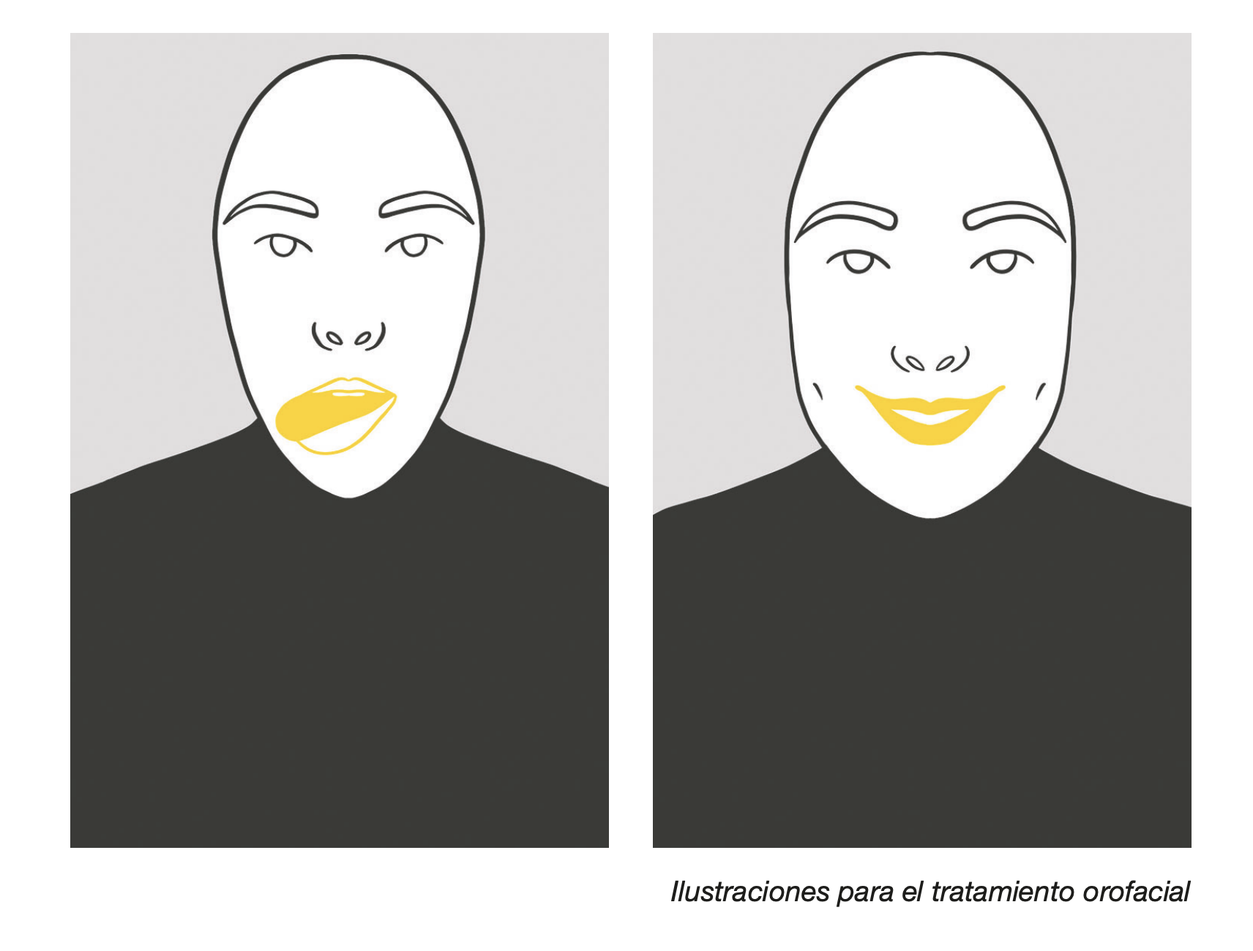
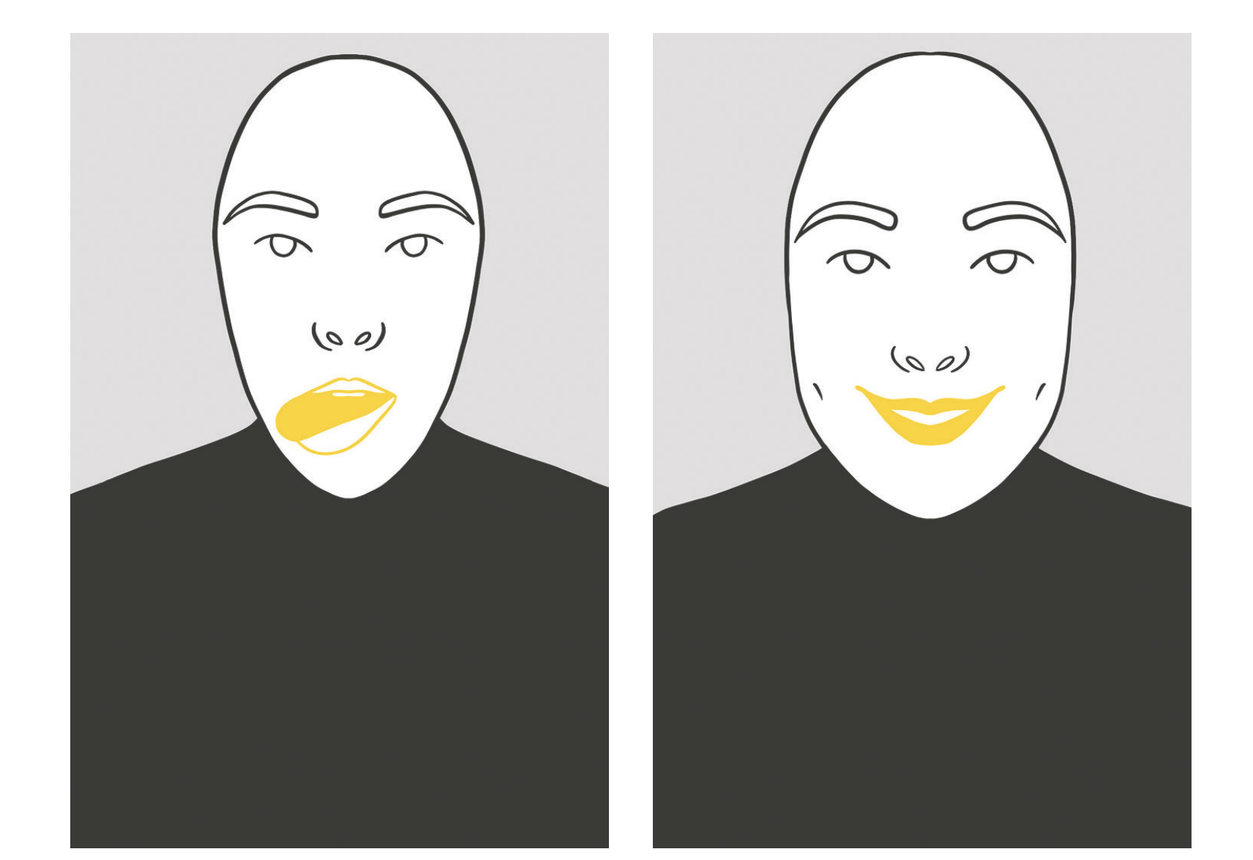
Restructure SISDEVA case study and unify Key Learnings layout
Split SISDEVA into dedicated RV experience and information-architecture
sections, add promotional/branding closing images, expand solution
copy, and remove the max-w-2xl constraint from the "Qué me dejó este
proyecto" block across all project pages for a consistent full-width layout.

diff --git a/work/sisdeva.html b/work/sisdeva.html
@@ -463,18 +463,20 @@
         </p>
       </div>
 
+      <div class="reveal mt-16 md:mt-20 rounded-2xl overflow-hidden bg-white">
+        <img src="sisdeva-logo-construction.webp" alt="Construcción del símbolo del logotipo de SISDEVA: la letra S, una hélice de ADN y unas gafas de realidad virtual se combinan para formar el icono de la marca" class="w-full h-auto">
+      </div>
+
       <div class="reveal mt-16 md:mt-20 rounded-2xl overflow-hidden">
         <img src="sisdeva-orofacial-illustrations.png" alt="Ilustraciones para el tratamiento orofacial: dos rostros ilustrados con los labios resaltados en amarillo" class="w-full h-auto">
       </div>
+      <p class="reveal text-xs text-slate mt-3">Ilustraciones para el tratamiento orofacial</p>
 
       <div class="reveal grid md:grid-cols-[1fr_1.4fr] gap-4 md:gap-16 mb-14 mt-16 md:mt-20 pt-16 md:pt-20 border-t border-ink/[0.08]">
         <p class="text-xs font-medium tracking-widest uppercase text-slate">Terapias digitales</p>
         <div class="space-y-5">
           <p class="text-ink/80 leading-relaxed max-w-2xl">
-            Entre varios de nuestros objetivos, se encuentra fomentar el entrenamiento autónomo en los pacientes. Es por ello que se han desarrollado una serie de ejercicios a modo de terapias digitales que estimulan ciertos movimientos faciales y corporales que irán incorporados en uno de los apartados de la app. Para su correcta realización, se han llevado a cabo una serie de pasos:
-          </p>
-          <p class="text-ink/80 leading-relaxed max-w-2xl">
-            Dentro de terapias digitales, destaca que se plantearon entonces dos modalidades para la UX del producto:
+            Entre varios de nuestros objetivos, se encuentra fomentar el entrenamiento autónomo en los pacientes. Es por ello que se han desarrollado una serie de ejercicios a modo de terapias digitales que estimulan ciertos movimientos faciales y corporales que irán incorporados en uno de los apartados de la app. Para su correcta realización, se han llevado a cabo una serie de pasos. Además, dentro de terapias digitales, destaca que se plantearon entonces dos modalidades para la UX del producto:
           </p>
           <ul class="text-ink/80 leading-relaxed space-y-3 list-disc list-outside pl-4 marker:text-latte-dark">
             <li>Uso del software en el propio dispositivo móvil / tablet</li>
@@ -483,8 +485,7 @@
         </div>
       </div>
 
-      <div class="reveal grid md:grid-cols-[1fr_1.4fr] gap-4 md:gap-16">
-        <p class="text-xs font-medium tracking-widest uppercase text-slate mt-1">Proceso</p>
+      <div class="reveal">
         <ul class="border-t border-ink/[0.08]">
           <li class="py-5 border-b border-ink/[0.08] flex flex-col sm:flex-row sm:items-baseline gap-1 sm:gap-6">
             <span class="text-sm font-medium text-latte-dark shrink-0">01</span>
@@ -515,9 +516,24 @@
           </li>
         </ul>
       </div>
+    </section>
 
-      <div class="reveal grid md:grid-cols-[1fr_1.4fr] gap-4 md:gap-16 mt-16 md:mt-20 pt-16 md:pt-20 border-t border-ink/[0.08]">
-        <p class="text-xs font-medium tracking-widest uppercase text-slate">Experiencia en RV</p>
+    <!-- ===== 07 · EXPERIENCIA EN RV ===== -->
+    <section class="max-w-6xl mx-auto px-6 md:px-10 py-16 md:py-20 border-t border-ink/[0.08]">
+      <div class="reveal flex items-center gap-4 mb-5">
+        <span class="text-sm font-medium text-latte-dark">07</span>
+        <span class="text-xs font-medium tracking-widest uppercase text-slate">Experiencia en RV</span>
+      </div>
+      <h2 class="reveal text-2xl md:text-3xl font-semibold tracking-tight mb-14 md:mb-16">
+        Diseñando la experiencia dentro de las gafas de RV
+      </h2>
+
+      <div class="reveal mb-14 md:mb-16 aspect-[16/9] rounded-2xl overflow-hidden">
+        <img src="sisdeva-vr-hands.webp" alt="Persona con gafas de realidad virtual moviendo las manos frente a ella" class="w-full h-full object-cover">
+      </div>
+
+      <div class="reveal grid md:grid-cols-[1fr_1.4fr] gap-4 md:gap-16">
+        <p class="text-xs font-medium tracking-widest uppercase text-slate">Enfoque</p>
         <div class="space-y-5">
           <p class="text-ink/80 leading-relaxed max-w-2xl">
             En la pantalla se muestra una sencilla figura humana ilustrada que imita el movimiento que realiza el usuario. La parte específica del cuerpo que se trata de estimular viene destacada en color amarillo. De este modo, el usuario se ve a sí mismo en movimiento (gracias a la información recogida con el sensor externo) dentro de un espacio de 360º. Alrededor de esta figura se muestra una línea discontinua la cual indica la posición final del movimiento que debe realizar. El sensor es capaz de recoger parámetros como la velocidad de los movimientos, la aceleración, o grados de inclinación, por lo que el usuario podrá ir viendo en su pantalla su evolución con respecto a los diferentes datos que se registran.
@@ -529,11 +545,41 @@
       </div>
 
       <div class="reveal mt-16 md:mt-20 rounded-2xl overflow-hidden">
+        <img src="sisdeva-vr-setup.webp" alt="Instrucción para colocar el dispositivo en posición horizontal e introducirlo en las gafas de realidad virtual, junto a la fotografía del ejercicio corporal en exteriores" class="w-full h-auto">
+      </div>
+
+      <div class="reveal mt-10 md:mt-12 rounded-2xl overflow-hidden">
         <img src="sisdeva-body-exercise.webp" alt="Boceto de ejercicio facial con brazos levantados sobre fondo amarillo y aplicación del mismo ejercicio corporal superpuesto sobre una fotografía en exteriores" class="w-full h-auto">
+      </div>
+    </section>
+
+    <!-- ===== 08 · ARQUITECTURA Y EXPERIENCIA DE USUARIO ===== -->
+    <section class="max-w-6xl mx-auto px-6 md:px-10 py-16 md:py-20 border-t border-ink/[0.08]">
+      <div class="reveal flex items-center gap-4 mb-5">
+        <span class="text-sm font-medium text-latte-dark">08</span>
+        <span class="text-xs font-medium tracking-widest uppercase text-slate">Arquitectura y experiencia de usuario</span>
+      </div>
+      <h2 class="reveal text-2xl md:text-3xl font-semibold tracking-tight mb-14 md:mb-16">
+        Estructurando el acceso y la navegación de la app
+      </h2>
+
+      <div class="reveal mb-14 md:mb-16 rounded-2xl overflow-hidden bg-white">
+        <img src="sisdeva-information-architecture.webp" alt="Diagrama de arquitectura de la información de la aplicación, desde Inicio Sesión hasta las secciones Agenda, Actividad, Seguimiento, Contacto y Perfil" class="w-full h-auto">
+      </div>
+
+      <div class="reveal grid md:grid-cols-[1fr_1.4fr] gap-4 md:gap-16">
+        <p class="text-xs font-medium tracking-widest uppercase text-slate">Acceso y registro</p>
+        <p class="text-ink/80 leading-relaxed max-w-2xl">
+          La estructura de uso de la aplicación parte de la pantalla de acceso. Dado que se trata de una aplicación destinada al uso con fines sanitarios, el registro en la misma vendrá recomendado y controlado por parte de un profesional. Por ello, para iniciar la sesión, el usuario deberá introducir su DNI y un código que el personal sanitario que siga su tratamiento le habrá facilitado previamente. De este modo la aplicación quedaría conectada automáticamente al historial médico de los pacientes, facilitando así la actualización continua de los datos.
+        </p>
+      </div>
+
+      <div class="reveal mt-16 md:mt-20 rounded-2xl overflow-hidden bg-[#3D3D3D]">
+        <img src="sisdeva-login-mockup.webp" alt="Mockup de la pantalla de inicio de sesión, con campos para usuario (DNI) y contraseña, en formato horizontal y vertical" class="w-full h-auto">
       </div>
 
       <div class="reveal grid md:grid-cols-[1fr_1.4fr] gap-4 md:gap-16 mt-16 md:mt-20 pt-16 md:pt-20 border-t border-ink/[0.08]">
-        <p class="text-xs font-medium tracking-widest uppercase text-slate">Aplicación y experiencia de usuario</p>
+        <p class="text-xs font-medium tracking-widest uppercase text-slate">Experiencia post-registro</p>
         <p class="text-ink/80 leading-relaxed max-w-2xl">
           De la definición de perfil de usuario estándar de nuestra aplicación alcanzada gracias a la herramienta buyer persona, extraemos una serie de conclusiones que resultan fundamentales para crear la estructura base de la aplicación. La media de edad de las personas que recurrirían a nuestra aplicación viene dada por la media de edad de las personas que padecen EP, esto es, 60 años. Este dato resulta vital en este punto del proceso, pues, al no tratarse de una aplicación destinada a jóvenes, nos hace tener en cuenta términos de accesibilidad respecto al tamaño de las imágenes y textos, o a la dificultad que pueda suponer aprender a usarla con fluidez. Además, al tratarse de enfermedades degenerativas y, desgraciadamente, aún sin cura, debemos ser muy conscientes de que la aplicación deberá poder ser usada diariamente durante un largo periodo de tiempo sin resultar aburrida o transmitir una sensación de desagrado, es decir, debe ser "amable" tanto en funcionamiento como en apariencia con el usuario para fomentar un uso continuado de la misma.
         </p>
@@ -543,6 +589,8 @@
         <div id="wireframes-carousel-track" class="flex h-full transition-transform duration-500 ease-out">
           <img src="sisdeva-wireframe-actividad.png" alt="Wireframe de alta fidelidad de la pantalla Actividad, con cuatro tarjetas: Logopedia, Mindfulness, Movilidad y Entrenamiento cognitivo" class="w-full h-full object-contain p-6 md:p-10 shrink-0">
           <img src="sisdeva-wireframe-seguimiento.png" alt="Wireframe de alta fidelidad de la pantalla Seguimiento, con tiempo de actividad, logros y pasos diarios" class="w-full h-full object-contain p-6 md:p-10 shrink-0">
+          <img src="sisdeva-wireframe-inicio.webp" alt="Wireframe de alta fidelidad de la pantalla Inicio, con calendario, anotaciones, pendientes y accesos directos a Actividad, Seguimiento y Contacto" class="w-full h-full object-contain p-6 md:p-10 shrink-0">
+          <img src="sisdeva-wireframe-logopedia.webp" alt="Wireframe de alta fidelidad del ejercicio de Logopedia, mostrando el boceto del movimiento a imitar y la webcam del usuario realizándolo" class="w-full h-full object-contain p-6 md:p-10 shrink-0">
         </div>
 
         <button type="button" id="wireframes-carousel-prev" aria-label="Imagen anterior" class="focus-ring absolute top-1/2 left-4 -translate-y-1/2 w-9 h-9 flex items-center justify-center rounded-full bg-paper/90 backdrop-blur-sm text-ink hover:bg-paper transition-opacity opacity-0 group-hover:opacity-100 focus-visible:opacity-100 shadow-sm">
@@ -555,22 +603,24 @@
         <div class="absolute bottom-4 inset-x-0 flex items-center justify-center gap-2">
           <button type="button" class="wireframes-carousel-dot focus-ring w-2 h-2 rounded-full bg-ink transition-colors" data-index="0" aria-label="Ir a la imagen 1"></button>
           <button type="button" class="wireframes-carousel-dot focus-ring w-2 h-2 rounded-full bg-ink/25 transition-colors" data-index="1" aria-label="Ir a la imagen 2"></button>
+          <button type="button" class="wireframes-carousel-dot focus-ring w-2 h-2 rounded-full bg-ink/25 transition-colors" data-index="2" aria-label="Ir a la imagen 3"></button>
+          <button type="button" class="wireframes-carousel-dot focus-ring w-2 h-2 rounded-full bg-ink/25 transition-colors" data-index="3" aria-label="Ir a la imagen 4"></button>
         </div>
       </div>
       <p class="reveal text-xs text-slate mt-3">Wireframes de alta fidelidad</p>
+    </section>
 
-      <div class="reveal grid md:grid-cols-[1fr_1.4fr] gap-4 md:gap-16 mt-16 md:mt-20 pt-16 md:pt-20 border-t border-ink/[0.08]">
-        <p class="text-xs font-medium tracking-widest uppercase text-slate">Acceso y registro</p>
-        <p class="text-ink/80 leading-relaxed max-w-2xl">
-          La estructura de uso de la aplicación parte de la pantalla de acceso. Dado que se trata de una aplicación destinada al uso con fines sanitarios, el registro en la misma vendrá recomendado y controlado por parte de un profesional. Por ello, para iniciar la sesión, el usuario deberá introducir su DNI y un código que el personal sanitario que siga su tratamiento le habrá facilitado previamente. De este modo la aplicación quedaría conectada automáticamente al historial médico de los pacientes, facilitando así la actualización continua de los datos.
-        </p>
+    <!-- ===== 09 · SOLUTION ===== -->
+    <section class="max-w-6xl mx-auto px-6 md:px-10 py-16 md:py-20 border-t border-ink/[0.08]">
+      <div class="reveal flex items-center gap-4 mb-5">
+        <span class="text-sm font-medium text-latte-dark">09</span>
+        <span class="text-xs font-medium tracking-widest uppercase text-slate">Solución</span>
       </div>
+      <h2 class="reveal text-2xl md:text-3xl font-semibold tracking-tight max-w-2xl mb-14 md:mb-16">
+        Una ayuda para nuestros profesionales y pacientes
+      </h2>
 
-      <div class="reveal mt-16 md:mt-20 rounded-2xl overflow-hidden bg-white">
-        <img src="sisdeva-information-architecture.webp" alt="Diagrama de arquitectura de la información de la aplicación, desde Inicio Sesión hasta las secciones Agenda, Actividad, Seguimiento, Contacto y Perfil" class="w-full h-auto">
-      </div>
-
-      <div class="reveal mt-16 md:mt-20">
+      <div class="reveal rounded-2xl overflow-hidden">
         <img src="sisdeva-ipad-seguimiento.png" alt="Mockup de un iPad mostrando la pantalla de Seguimiento de la aplicación" class="w-full h-auto">
       </div>
 
@@ -578,26 +628,20 @@
         <img src="sisdeva-ipad-login.png" alt="Mockup de un iPad mostrando la pantalla de Inicio y un iPhone con la pantalla de inicio de sesión, solicitando DNI y contraseña" class="w-full h-auto">
       </div>
 
-      <div class="reveal mt-10 md:mt-12">
+      <div class="reveal mt-10 md:mt-12 mb-16">
         <img src="sisdeva-phone-lineup.webp" alt="Cinco mockups de iPhone mostrando distintas pantallas de la aplicación SISDEVA: portada, inicio, seguimiento, ejercicio de mano y ejercicio orofacial" class="w-full h-auto">
       </div>
-    </section>
-
-    <!-- ===== 07 · SOLUTION ===== -->
-    <section class="max-w-6xl mx-auto px-6 md:px-10 py-16 md:py-20 border-t border-ink/[0.08]">
-      <div class="reveal flex items-center gap-4 mb-5">
-        <span class="text-sm font-medium text-latte-dark">07</span>
-        <span class="text-xs font-medium tracking-widest uppercase text-slate">Solución</span>
-      </div>
-      <h2 class="reveal text-2xl md:text-3xl font-semibold tracking-tight max-w-2xl mb-14 md:mb-16">
-        Enseñar en lugar de explicar
-      </h2>
 
       <div class="reveal grid md:grid-cols-[1fr_1.4fr] gap-4 md:gap-16 mb-16">
         <p class="text-xs font-medium tracking-widest uppercase text-slate">Enfoque</p>
-        <p class="text-ink/80 leading-relaxed max-w-2xl">
-          [Placeholder] En vez de añadir más material informativo, apostamos por la realidad virtual para que el paciente pudiera ver y recorrer el procedimiento antes de vivirlo, reduciendo la distancia entre el lenguaje clínico y su experiencia real.
-        </p>
+        <div class="space-y-5">
+          <p class="text-ink/80 leading-relaxed max-w-2xl">
+            El desarrollo de este proyecto nos ayuda a encontrar aplicación a los diferentes conocimientos y habilidades adquiridas a lo largo del grado. Tratándose de un proyecto que abarca diversas ramas del campo del diseño, nos ha servido para conocer diferentes modos de actuación y comprender la repercusión que llega a tener el proceso de investigación. Nos ha hecho conscientes de la importancia del flujo de trabajo tanto individual como en grupo, acentuando la relevancia de valores como la cooperación, el trabajo en equipo, y el compromiso.
+          </p>
+          <p class="text-ink/80 leading-relaxed max-w-2xl">
+            El proyecto que se presenta, aporta la visión del asunto y avanza un prototipo de solución desde el punto de vista del diseño social. Esta idea para materializarse de una forma eficaz, precisará los aportes de expertos multidisciplinares, tanto en el ámbito sanitario como tecnológico. Esta convergencia de conocimientos de diferentes disciplinas especializadas, haría viable el producto pudiendo llegar a tener resultados visibles en una hipotética aplicación.
+          </p>
+        </div>
       </div>
 
       <div class="reveal grid md:grid-cols-[1fr_1.4fr] gap-4 md:gap-16 mb-16">
@@ -607,47 +651,55 @@
             <span class="text-sm font-medium text-latte-dark shrink-0">01</span>
             <div>
               <h3 class="text-base font-medium mb-1">Experiencia inmersiva guiada</h3>
-              <p class="text-sm text-slate leading-relaxed max-w-lg">[Placeholder] Recorrido en realidad virtual que muestra paso a paso el procedimiento.</p>
+              <p class="text-sm text-slate leading-relaxed max-w-lg">A través de las gafas de realidad virtual, el paciente recorre el procedimiento paso a paso en primera persona, visualizando cada etapa antes de vivirla en la consulta real. Esta experiencia guiada reduce la incertidumbre y ayuda a que la persona llegue a la cita con una idea clara de lo que va a suceder.</p>
             </div>
           </li>
           <li class="py-5 border-b border-ink/[0.08] flex flex-col sm:flex-row sm:items-baseline gap-1 sm:gap-6">
             <span class="text-sm font-medium text-latte-dark shrink-0">02</span>
             <div>
               <h3 class="text-base font-medium mb-1">Lenguaje visual accesible</h3>
-              <p class="text-sm text-slate leading-relaxed max-w-lg">[Placeholder] Sustitución del vocabulario clínico por representaciones visuales comprensibles.</p>
+              <p class="text-sm text-slate leading-relaxed max-w-lg">Sustituimos el vocabulario clínico, a menudo complejo para el paciente, por ilustraciones sencillas y códigos visuales claros, como el uso del color amarillo para señalar la parte del cuerpo implicada en cada ejercicio. De este modo, la información se vuelve comprensible independientemente de los conocimientos médicos previos del usuario.</p>
             </div>
           </li>
           <li class="py-5 flex flex-col sm:flex-row sm:items-baseline gap-1 sm:gap-6">
             <span class="text-sm font-medium text-latte-dark shrink-0">03</span>
             <div>
               <h3 class="text-base font-medium mb-1">Apoyo al profesional sanitario</h3>
-              <p class="text-sm text-slate leading-relaxed max-w-lg">[Placeholder] Herramienta de consulta que complementa la explicación sin alargar la visita.</p>
+              <p class="text-sm text-slate leading-relaxed max-w-lg">La herramienta funciona como apoyo durante la consulta, permitiendo al profesional sanitario reforzar sus explicaciones con contenido visual sin necesidad de alargar el tiempo de la cita. De esta forma, el paciente sale con una comprensión más completa del procedimiento sin que ello suponga una carga adicional para el equipo médico.</p>
             </div>
           </li>
         </ul>
       </div>
 
-      <div class="reveal grid md:grid-cols-[1fr_1.4fr] gap-4 md:gap-16">
-        <p class="text-xs font-medium tracking-widest uppercase text-slate mt-1">Resultados</p>
-        <ul class="space-y-4 max-w-2xl">
-          <li class="pl-4 border-l-2 border-latte text-ink/80 leading-relaxed">[Placeholder] Los pacientes comprendieron mejor en qué consistía el procedimiento.</li>
-          <li class="pl-4 border-l-2 border-latte text-ink/80 leading-relaxed">[Placeholder] Se redujo la ansiedad previa reportada por los participantes.</li>
-          <li class="pl-4 border-l-2 border-latte text-ink/80 leading-relaxed">[Placeholder] El personal sanitario ganó una herramienta de apoyo en consulta.</li>
-        </ul>
+      <div class="reveal mt-16 md:mt-20 rounded-2xl overflow-hidden">
+        <img src="sisdeva-appstore-mockup.webp" alt="Mockup de una persona sujetando un móvil con la ficha de SISDEVA abierta en la App Store" class="w-full h-auto">
       </div>
+
+      <div class="reveal mt-10 md:mt-12 rounded-2xl overflow-hidden">
+        <img src="sisdeva-desktop-mockup.webp" alt="Mockup de la página web de SISDEVA mostrada en un ordenador de sobremesa, un portátil y un móvil" class="w-full h-auto">
+      </div>
+
+      <div class="reveal mt-10 md:mt-12 rounded-2xl overflow-hidden">
+        <img src="sisdeva-subway-ad.webp" alt="Anuncio publicitario de SISDEVA en una estación de metro, con el mensaje 8 de cada 10 nos dan las gracias" class="w-full h-auto">
+      </div>
+
+      <div class="reveal mt-10 md:mt-12 rounded-2xl overflow-hidden">
+        <img src="sisdeva-logo-variations.png" alt="Variaciones del logotipo de SISDEVA en distintos colores y fondos" class="w-full h-auto">
+      </div>
+
     </section>
 
-    <!-- ===== 08 · KEY LEARNINGS ===== -->
+    <!-- ===== 10 · KEY LEARNINGS ===== -->
     <section class="max-w-6xl mx-auto px-6 md:px-10 py-16 md:py-20 border-t border-ink/[0.08]">
       <div class="reveal flex items-center gap-4 mb-5">
-        <span class="text-sm font-medium text-latte-dark">08</span>
+        <span class="text-sm font-medium text-latte-dark">10</span>
         <span class="text-xs font-medium tracking-widest uppercase text-slate">Aprendizajes clave</span>
       </div>
-      <h2 class="reveal text-2xl md:text-3xl font-semibold tracking-tight max-w-2xl mb-8">
+      <h2 class="reveal text-2xl md:text-3xl font-semibold tracking-tight mb-8">
         Qué me dejó este proyecto
       </h2>
-      <p class="reveal text-ink/80 leading-relaxed max-w-2xl">
-        [Placeholder — comparte una o dos lecciones honestas del proyecto: algo que aprendiste sobre diseñar para contextos sensibles como la salud, o sobre trabajar con tecnología inmersiva al servicio de las personas y no al revés.]
+      <p class="reveal text-ink/80 leading-relaxed">
+        SISDEVA me dejó un compromiso claro con el diseño social: entender que el diseño puede ser una herramienta real de ayuda en el sector sanitario, y no solo un ejercicio estético. Trabajar en un contexto tan sensible como la salud me obligó a diseñar con cuidado, pensando siempre en las personas que estarían al otro lado, y me hizo valorar la tecnología inmersiva no como un fin en sí misma, sino como un medio al servicio de quien la usa. Por encima de todo, este proyecto reforzó mi visión del diseñador como un perfil multidisciplinar, capaz de dialogar con profesionales de otros campos para que una idea llegue a convertirse en una solución viable.
       </p>
     </section>
 

diff --git a/work/swap.html b/work/swap.html
@@ -668,7 +668,7 @@
       <h2 class="reveal text-2xl md:text-3xl font-semibold tracking-tight mb-8">
         Qué me dejó este proyecto
       </h2>
-      <p class="reveal text-ink/80 leading-relaxed max-w-2xl">
+      <p class="reveal text-ink/80 leading-relaxed">
         Mi paso por el desarrollo de este proyecto fue excepcional, ya que tuve la oportunidad de trabajar con mis compañeros de equipo Julia, Berta y Oriol, quienes ya se encontraban trabajando activamente dentro del mercado del diseño de producto digital y del marketing. Gracias a esto pude atender muchísimas cosas más que quedan fuera del contexto académico del máster, algo que agradecí muchísimo a la hora de empezar a trabajar en Freightos. Además, la insistencia en la investigación y el benchmark que se exigió durante todo el máster me permitió tener una mirada más crítica y reaccionar mejor a la hora de exponer ideas o buscar soluciones en los siguientes proyectos en los que trabajé.
       </p>
     </section>

diff --git a/work/notification-system.html b/work/notification-system.html
@@ -581,10 +581,10 @@
       <h2 class="reveal text-2xl md:text-3xl font-semibold tracking-tight mb-8">
         Qué me dejó este proyecto
       </h2>
-      <p class="reveal text-ink/80 leading-relaxed max-w-2xl">
+      <p class="reveal text-ink/80 leading-relaxed">
         A veces hay proyectos que conllevan más o menos prioridad dentro de un roadmap. Con este en concreto, pude observar cómo los requisitos pueden cambiar de la noche a la mañana y la agilidad que hay que tener para adaptarse a las nuevas visiones externas. Me llevo mucho entrenamiento para futuros proyectos que conlleven situaciones similares.
       </p>
-      <p class="reveal text-ink/80 leading-relaxed max-w-2xl mt-6">
+      <p class="reveal text-ink/80 leading-relaxed mt-6">
         También comentar que este proyecto no ha sido publicado aún en el sistema, por eso todo lo que vemos en esta página es estrictamente confidencial.
       </p>
     </section>

diff --git a/work/vertical-menus.html b/work/vertical-menus.html
@@ -545,7 +545,7 @@
       <h2 class="reveal text-2xl md:text-3xl font-semibold tracking-tight mb-8">
         Qué me dejó este proyecto
       </h2>
-      <p class="reveal text-ink/80 leading-relaxed max-w-2xl">
+      <p class="reveal text-ink/80 leading-relaxed">
         Este fue, hasta la fecha, el proyecto más completo de mi etapa en Freightos. Me permitió tocar prácticamente todos los ámbitos de la experiencia de usuario y el diseño de producto digital: desde la comunicación interna dentro de la empresa y las conversaciones directas con distintos directivos, hasta un proceso de research bastante complejo a nivel de UX, interacción e interfaz, apoyado en metodologías como card sorting y workshops con los distintos equipos de la empresa. Ese recorrido me permitió llegar a una solución mucho más actualizada y fresca que la de otros proyectos que había diseñado antes para la empresa.
       </p>
     </section>

diff --git a/work/checkout-fintech.html b/work/checkout-fintech.html
@@ -352,10 +352,10 @@
         <span class="text-sm font-medium text-latte-dark">04</span>
         <span class="text-xs font-medium tracking-widest uppercase text-slate">Aprendizajes clave</span>
       </div>
-      <h2 class="reveal text-2xl md:text-3xl font-semibold tracking-tight max-w-2xl mb-8">
+      <h2 class="reveal text-2xl md:text-3xl font-semibold tracking-tight mb-8">
         Qué me dejó este proyecto
       </h2>
-      <p class="reveal text-ink/80 leading-relaxed max-w-2xl">
+      <p class="reveal text-ink/80 leading-relaxed">
         [Placeholder — comparte una o dos lecciones honestas del proyecto: algo que aprendiste sobre el proceso, sobre trabajar con el equipo, o sobre los propios usuarios, que te llevas a futuros proyectos.]
       </p>
     </section>

diff --git a/work/wizard-rate-management.html b/work/wizard-rate-management.html
@@ -476,7 +476,7 @@
       <h2 class="reveal text-2xl md:text-3xl font-semibold tracking-tight mb-8">
         Qué me dejó este proyecto
       </h2>
-      <p class="reveal text-ink/80 leading-relaxed max-w-2xl">
+      <p class="reveal text-ink/80 leading-relaxed">
         Este proyecto me permitió visualizar una nueva rama del diseño de producto: la de trabajar con funcionalidades que manejan archivos muy pesados, con muchísimos datos y cargas de información constantes. Esto me dejó como resultado una habilidad más a nivel personal y profesional como Product Designer: la de poder simplificar incluso los procesos de experiencia de usuario más complejos del mercado.
       </p>
     </section>
